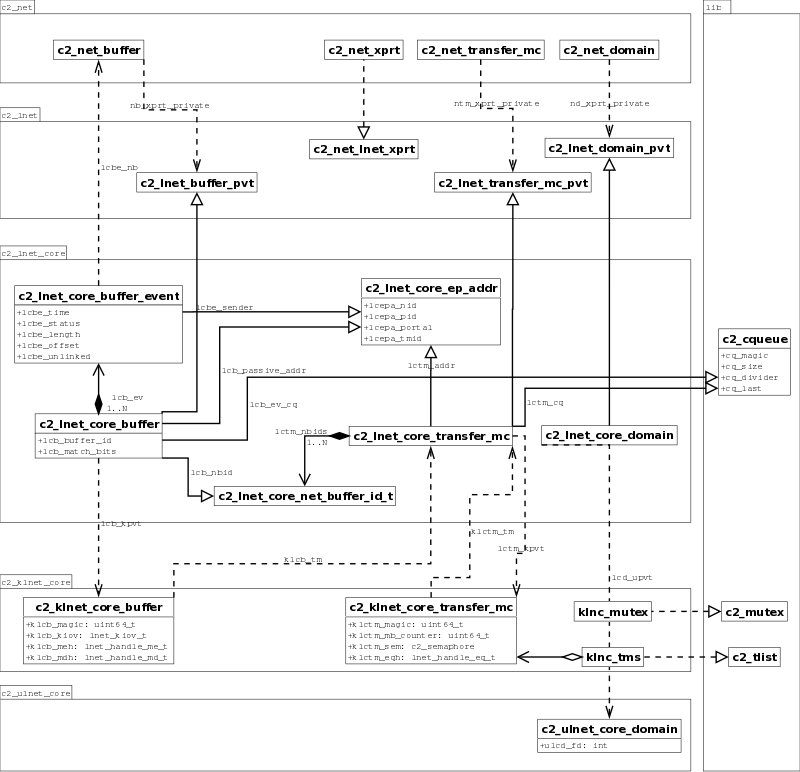
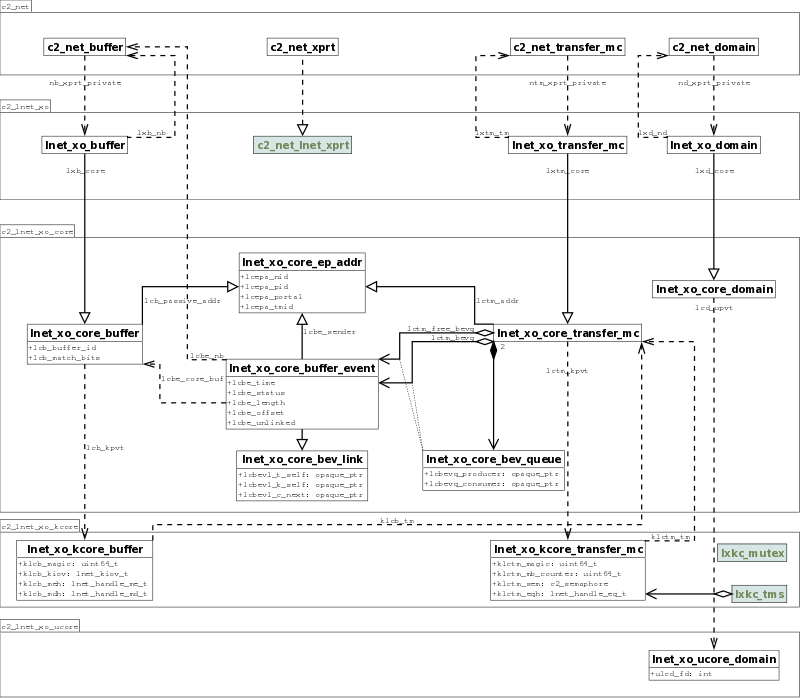
Checkpoint.
- Updated figure with bevq
- Added net/lnet/lnet_xo.h

diff --git a/net/lnet/lnet_xo.h b/net/lnet/lnet_xo.h
@@ -1,0 +1,85 @@
+/* -*- C -*- */
+/*
+ * COPYRIGHT 2011 XYRATEX TECHNOLOGY LIMITED
+ *
+ * THIS DRAWING/DOCUMENT, ITS SPECIFICATIONS, AND THE DATA CONTAINED
+ * HEREIN, ARE THE EXCLUSIVE PROPERTY OF XYRATEX TECHNOLOGY
+ * LIMITED, ISSUED IN STRICT CONFIDENCE AND SHALL NOT, WITHOUT
+ * THE PRIOR WRITTEN PERMISSION OF XYRATEX TECHNOLOGY LIMITED,
+ * BE REPRODUCED, COPIED, OR DISCLOSED TO A THIRD PARTY, OR
+ * USED FOR ANY PURPOSE WHATSOEVER, OR STORED IN A RETRIEVAL SYSTEM
+ * EXCEPT AS ALLOWED BY THE TERMS OF XYRATEX LICENSES AND AGREEMENTS.
+ *
+ * YOU SHOULD HAVE RECEIVED A COPY OF XYRATEX'S LICENSE ALONG WITH
+ * THIS RELEASE. IF NOT PLEASE CONTACT A XYRATEX REPRESENTATIVE
+ * http://www.xyratex.com/contact
+ *
+ * Original author: Carl Braganza <Carl_Braganza@us.xyratex.com>
+ *                  Dave Cohrs <Dave_Cohrs@us.xyratex.com>
+ * Original creation date: 11/10/2011
+ *
+ */
+#ifndef __COLIBRI_LNET_XO_H__
+#define __COLIBRI_LNET_XO_H__
+
+#include "net/lnet/lnet_core.h"
+
+/**
+   @defgroup LNetIDFS LNet Transport Internal Interface
+   @ingroup LNetDFS
+   @{
+*/
+
+struct lnet_xo_domain;
+struct lnet_xo_transfer_mc;
+struct lnet_xo_buffer;
+
+/**
+   Private data pointed to by c2_net_domain::nd_xprt_private.
+ */
+struct lnet_xo_domain {
+	/** Pointer back to the network dom */
+	struct c2_net_domain       *lxd_dom;
+
+	/** LNet Core transfer domain data (shared memory) */
+	struct c2_lnet_core_domain  lxd_core;
+};
+
+/**
+   Private data pointed to by c2_net_transfer_mc::ntm_xprt_private.
+ */
+struct lnet_xo_transfer_mc {
+	/** Pointer back to the network tm */
+	struct c2_net_transfer_mc       *lxtm_tm;
+
+	/** LNet Core transfer machine data (shared memory) */
+	struct c2_lnet_core_transfer_mc  lxtm_core;
+};
+
+/**
+   Private data pointed to by c2_net_buffer::nb_xprt_private.
+ */
+struct lnet_xo_buffer {
+	/** Pointer back to the network buffer */
+	struct c2_net_buffer       *lxb_nb;
+
+	/** LNet Core buffer data (shared memory) */
+	struct c2_lnet_core_buffer  lxb_core;
+};
+
+
+/**
+   @} LNetIDFS
+*/
+
+#endif /* __COLIBRI_LNET_XO_H__ */
+
+/*
+ *  Local variables:
+ *  c-indentation-style: "K&R"
+ *  c-basic-offset: 8
+ *  tab-width: 8
+ *  fill-column: 79
+ *  scroll-step: 1
+ *  End:
+ */

diff --git a/net/lnet/lnet_core.h b/net/lnet/lnet_core.h
@@ -104,11 +104,19 @@
 #include "net/lnet.h"
 
 /* forward references */
+struct c2_lnet_core_bev_link;
+struct c2_lnet_core_bev_queue;
 struct c2_lnet_core_buffer;
 struct c2_lnet_core_buffer_event;
 struct c2_lnet_core_domain;
 struct c2_lnet_core_ep_addr;
 struct c2_lnet_core_transfer_mc;
+
+/**
+   Opaque type wide enough to represent an address in any address space.
+ */
+typedef uint64_t c2_lnet_core_opaque_ptr_t;
+C2_BASSERT(sizeof(c2_lnet_core_opaque_ptr_t) == sizeof(void *));
 
 /**
    This structure defines the fields in an LNet transport end point address.
@@ -136,12 +144,6 @@ enum {
 struct c2_lnet_core_domain {
 	/* place holder */
 };
-
-/**
-   Opaque type wide enough to represent an address in any address space.
- */
-typedef uint64_t c2_lnet_core_opaque_ptr_t;
-C2_BASSERT(sizeof(c2_lnet_core_opaque_ptr_t) == sizeof(void *));
 
 /**
    Buffer events are linked in the buffer queue using this structure. It is
@@ -190,11 +192,18 @@ struct c2_lnet_core_bev_queue {
    struct c2_net_buffer_event.
  */
 struct c2_lnet_core_buffer_event {
-	/** Linkage in the TM buffer event queue */
-	struct c2_lnet_core_bev_link  lcbe_tm_link;
+	/** Linkage in one of the TM buffer event queues */
+	struct c2_lnet_core_bev_link lcbe_tm_link;
 
-	/** Pointer to the transport private data (transport address space) */
-	struct c2_lnet_core_buffer  *lcbe_core_pvt;
+	/**
+	    This value is set by the kernel Core module's LNet event handler,
+	    and is copied from the c2_lnet_core_buffer::lcb_buffer_id
+	    field. The value is a pointer to the core buffer data in the
+	    transport address space, and is provided to enable the transport
+	    to navigate back to its outer buffer private data and from there
+	    back to the c2_net_buffer.
+	 */
+	c2_lnet_core_opaque_ptr_t    lcbe_core_buf;
 
 	/** Event timestamp */
 	c2_time_t                    lcbe_time;
@@ -242,7 +251,7 @@ struct c2_lnet_core_transfer_mc {
 	   Buffer completion event queue.  The queue is shared between the
 	   transport address space and the kernel.
 	 */
-	struct c2_lnet_core_bev_queue lctm_completed_bevq;
+	struct c2_lnet_core_bev_queue lctm_bevq;
 };
 
 /**

diff --git a/net/lnet/bev_queue.c b/net/lnet/bev_queue.c
@@ -27,6 +27,8 @@
 
    Unlike the standard c2_queue, this queue supports a producer and consumer
    in different address spaces sharing the queue via shared memory.
+
+   @{
  */
 
 /**

diff --git a/net/lnet/lnet_xo.c b/net/lnet/lnet_xo.c
@@ -225,8 +225,7 @@
 #include "net/lnet/lnet_core.h"
 
 /**
-   @defgroup LNetIDFS LNet Transport Internal Interface
-   @ingroup LNetDFS
+   @addtogroup LNetIDFS
    @{
 */
 
